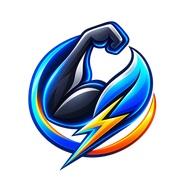
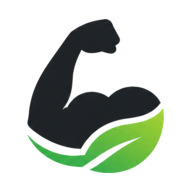
Add files via upload

diff --git a/index.html b/index.html
@@ -15,7 +15,7 @@
 <link rel="apple-touch-icon" sizes="180x180" href="apple-touch-icon.png">
 <link rel="manifest" href="site.webmanifest">
 <meta name="application-name" content="FlexFuel">
-<meta name="msapplication-TileColor" content="#0B111A">
+<meta name="msapplication-TileColor" content="#091109">
 <style>
 @import url('https://fonts.googleapis.com/css2?family=Oswald:wght@500;600;700&family=Inter:wght@400;500;600;700&display=swap');
 :root{--card:#FFFFFF;--card-up:#F1F4F9;--line:#E8ECF3;--chalk:#2A2F45;--dim:#8A90A6;--bg:#EEF1F7;
@@ -136,6 +136,8 @@ select.inp{appearance:none}
 .seg button.on{color:#FFF;border-color:transparent;font-weight:700}
 .plan-p{font-size:13.5px;line-height:1.55;margin:0}
 .note{margin:0 18px 12px;font-size:12px;color:var(--dim);line-height:1.5}
+.train-today-banner{display:flex;align-items:center;gap:12px;padding:13px 15px}
+.train-today-banner .tool-icon{display:grid;place-items:center;width:38px;height:38px;border-radius:12px;background:var(--accent-soft);color:var(--accent);flex:0 0 auto}
 
 /* =========================================================
    TRAINING WEEK — PREMIUM UI LAYER
@@ -899,14 +901,15 @@ button:active,.tool-card:active,.day-btn:active{transform:scale(.975)}
 
 
 /* FlexFuel branding */
-.brand-mini{display:flex;align-items:center;gap:10px;margin-bottom:8px}
+.brand-mini{display:flex;align-items:center;gap:10px;margin-bottom:10px}
 .brand-mini-logo{height:26px;width:auto;display:block;filter:drop-shadow(0 4px 10px rgba(0,0,0,.08))}
+.brand-header-wordmark{display:block;width:auto;height:30px;max-width:174px;object-fit:contain;background:#fff;border:1px solid rgba(18,32,20,.08);border-radius:10px;padding:4px 8px;box-shadow:0 6px 18px rgba(7,18,8,.10)}
 .brand-mini-copy{display:flex;flex-direction:column;line-height:1.05}
 .brand-mini-copy b{font-size:13px;letter-spacing:-.02em;color:var(--chalk)}
 .brand-mini-copy span{font-size:9.5px;color:var(--dim)}
 .brand-login-head{text-align:center;padding-top:40px!important}
-.brand-login-mark{display:flex;justify-content:center;margin-bottom:14px}
-.brand-hero-logo{max-width:min(280px,72vw);height:auto;display:block;filter:drop-shadow(0 12px 30px rgba(120,199,41,.18))}
+.brand-login-mark{display:flex;justify-content:center;margin:0 auto 16px;padding:12px 18px;width:min(340px,88vw);background:#fff;border:1px solid rgba(18,32,20,.10);border-radius:22px;box-shadow:0 18px 44px rgba(7,18,8,.14)}
+.brand-hero-logo{width:100%;height:auto;display:block;object-fit:contain;filter:none}
 .brand-login-sub{max-width:320px;margin:8px auto 0}
 .brand-login-card{border-top:3px solid rgba(var(--accent-rgb),.28)}
 .go-btn{box-shadow:0 14px 32px rgba(var(--accent-rgb),.22)}
@@ -1042,8 +1045,8 @@ button:hover,.ghost-btn:hover,.tool-card:hover,.day-btn:hover{transform:translat
 .profile-hero-brand{position:relative;overflow:hidden;padding:20px;border-radius:28px;margin:0 0 14px;background:linear-gradient(135deg,#0B150C 0%,#173117 52%,#2B7A35 100%);color:#F7FFF3;box-shadow:0 28px 80px rgba(52,184,71,.22)}
 .profile-hero-brand:before{content:'';position:absolute;right:-30px;top:-25px;width:190px;height:190px;border-radius:50%;background:radial-gradient(circle,rgba(200,255,41,.26),transparent 65%)}
 .profile-hero-brand .profile-top{position:relative;z-index:1;align-items:flex-start}.profile-hero-brand .profile-avatar{background:rgba(255,255,255,.14)!important;color:#fff;border-color:rgba(255,255,255,.18)!important}
-.profile-brand-mark{display:inline-flex;align-items:center;gap:10px;padding:8px 12px;border-radius:999px;background:rgba(0,0,0,.16);font-size:11px;letter-spacing:.12em;text-transform:uppercase;font-weight:800}
-.profile-brand-mark img{height:18px;width:auto}
+.profile-brand-mark{display:inline-flex;align-items:center;gap:10px;padding:8px 12px;border-radius:12px;background:#fff!important;color:#172116!important;font-size:11px;letter-spacing:.12em;text-transform:uppercase;font-weight:800;border:1px solid rgba(18,32,20,.10)!important}
+.profile-brand-mark img{height:22px;width:auto;max-width:150px}
 .profile-hero-brand .profile-name{font-size:30px}.profile-hero-brand .profile-meta,.profile-hero-brand .profile-badge{color:rgba(255,255,255,.92)}
 .profile-hero-brand .profile-badge{background:rgba(0,0,0,.18);border:1px solid rgba(255,255,255,.08)}
 .profile-kpi-deck{display:grid;grid-template-columns:repeat(4,1fr);gap:10px;margin-top:18px;position:relative;z-index:1}
@@ -1405,7 +1408,8 @@ header h1,.display{color:var(--chalk)!important}
 .fuel-hero .fuel-kcal,.fuel-hero b,.fuel-hero span,.fuel-hero .sub{color:#F8FFF5!important}
 .home-hero-premium .eyebrow,.profile-hero-brand .eyebrow,.fuel-hero .eyebrow{color:#DFFF86!important}
 .home-focus-card,.fuel-macro-tile,.profile-kpi-deck .profile-kpi{background:rgba(255,255,255,.10)!important;border-color:rgba(255,255,255,.12)!important;color:#F8FFF5!important;box-shadow:none!important}
-.home-brand-pill,.home-focus-badge,.profile-brand-mark,.profile-badge{background:rgba(0,0,0,.20)!important;color:#F8FFF5!important;border-color:rgba(255,255,255,.10)!important}
+.home-brand-pill,.home-focus-badge,.profile-badge{background:rgba(0,0,0,.20)!important;color:#F8FFF5!important;border-color:rgba(255,255,255,.10)!important}
+.profile-brand-mark{background:#fff!important;color:#172116!important;border-color:rgba(18,32,20,.10)!important}
 .home-primary-actions .ghost-btn,.fuel-hero-actions .ghost-btn,.profile-hero-brand .ghost-btn{background:rgba(255,255,255,.10)!important;color:#F8FFF5!important;border-color:rgba(255,255,255,.14)!important}
 
 .food-cal-track,.food-mini-track,.mini-progress,.macro-row .track,.progress-track,.bar{background:var(--surface3)!important}
@@ -1419,126 +1423,6 @@ header h1,.display{color:var(--chalk)!important}
 
 @media(max-width:560px){.theme-grid-three{grid-template-columns:repeat(3,1fr)!important}}
 
-
-/* ===== FlexFuel pristine visibility reset ===== */
-:root{
-  --accent:#2F6BFF !important;
-  --accent2:#23B4FF !important;
-  --accent-rgb:47,107,255 !important;
-  --accent-soft:rgba(47,107,255,.12) !important;
-  --accent-softer:rgba(47,107,255,.07) !important;
-  --hero-grad:linear-gradient(135deg,#2F6BFF 0%, #23B4FF 58%, #FF8C42 100%) !important;
-  --ff-blue:#2F6BFF;
-  --ff-cyan:#23B4FF;
-  --ff-orange:#FF8C42;
-  --ff-orange-soft:rgba(255,140,66,.12);
-}
-:root[data-accent="green"],:root[data-accent="orange"],:root[data-accent="violet"],:root[data-accent="rose"],:root[data-accent="aqua"]{
-  --accent:#2F6BFF !important;
-  --accent2:#23B4FF !important;
-  --accent-rgb:47,107,255 !important;
-}
-:root[data-resolved-theme="light"]{
-  --card:#FFFFFF !important;
-  --card-up:#FBFCFE !important;
-  --line:#E4EAF4 !important;
-  --chalk:#121826 !important;
-  --dim:#5F6E85 !important;
-  --bg:#F5F7FB !important;
-  --glass:rgba(255,255,255,.92) !important;
-  --glass-brd:rgba(18,24,38,.08) !important;
-  --glass-in:#F8FAFD !important;
-  --glass-btn:#F2F5FA !important;
-  --glass-btn2:#F8FAFD !important;
-  --glass-sec:#EFF4FB !important;
-  --brd-soft:rgba(18,24,38,.10) !important;
-  --brd-soft2:rgba(18,24,38,.12) !important;
-  --brd-soft3:rgba(18,24,38,.08) !important;
-  --shadow:rgba(31,46,86,.09) !important;
-  --tab:rgba(255,255,255,.92) !important;
-  --sw:#E8EEF7 !important;
-  --surface:#FFFFFF !important;
-  --surface2:#F7F9FD !important;
-  --surface3:#EDF2FA !important;
-  --ink:#121826 !important;
-  --muted:#66758D !important;
-  --page:#F5F7FB !important;
-  --hair:rgba(18,24,38,.08) !important;
-}
-:root[data-resolved-theme="dark"]{
-  --card:#161D2A !important;
-  --card-up:#1B2433 !important;
-  --line:#2B3548 !important;
-  --chalk:#F5F7FB !important;
-  --dim:#B4BED1 !important;
-  --bg:#0B111A !important;
-  --glass:rgba(22,29,42,.90) !important;
-  --glass-brd:rgba(255,255,255,.08) !important;
-  --glass-in:#141C29 !important;
-  --glass-btn:#1B2433 !important;
-  --glass-btn2:#202A3C !important;
-  --glass-sec:#1B2433 !important;
-  --brd-soft:rgba(255,255,255,.09) !important;
-  --brd-soft2:rgba(255,255,255,.11) !important;
-  --brd-soft3:rgba(255,255,255,.07) !important;
-  --shadow:rgba(0,0,0,.28) !important;
-  --tab:rgba(11,17,26,.94) !important;
-  --sw:#1A2230 !important;
-  --surface:#161D2A !important;
-  --surface2:#1B2433 !important;
-  --surface3:#243044 !important;
-  --ink:#F5F7FB !important;
-  --muted:#AEB8CB !important;
-  --page:#0B111A !important;
-  --hair:rgba(255,255,255,.08) !important;
-}
-body{background:var(--page)!important;color:var(--chalk)!important;}
-body::before{background:var(--page)!important;}
-button:focus-visible{outline:2px solid var(--accent)!important;outline-offset:2px;}
-a, .accent-link{color:var(--accent)!important;}
-.display,h1,h2,h3,.ex-title,.profile-name,.goal-value,.fuel-kcal{color:var(--chalk)!important;}
-.sub,.eyebrow,.ex-meta,.ex-last,.food-log-row small,.profile-kpi span,.profile-metric-card span,.food-mini-stat span,.food-quick-card small,.home-action-card span,.home-snapshot small,.fuel-target-note{color:var(--dim)!important;}
-.go-btn{background:var(--hero-grad)!important;color:#fff!important;box-shadow:0 14px 34px rgba(var(--accent-rgb),.26)!important;}
-.ghost-btn{border-color:var(--line)!important;color:var(--chalk)!important;background:var(--glass-btn)!important;}
-.inp, select, textarea{background:var(--surface2)!important;color:var(--chalk)!important;border-color:var(--hair)!important;}
-input::placeholder, textarea::placeholder{color:var(--muted)!important;}
-.card,.timer,.food-dashboard,.food-search-card,.food-library-card,.food-editor,.food-custom-form,.food-scanner,.home-snapshot,.food-mini-stat,.food-quick-card,.food-meal-card,.account-action-card,.profile-metric-card,.home-action-card,.home-snapshot,.fuel-quick-shell{background:var(--card)!important;border-color:var(--line)!important;box-shadow:0 10px 30px var(--shadow)!important;}
-.brand-login-card,.brand-card,.brand-shell{background:var(--card)!important;}
-.brand-hero-logo{filter:drop-shadow(0 14px 30px rgba(47,107,255,.18))!important;}
-.app-header-row .eyebrow,.brand-mini-copy span,.brand-mini-copy b{color:var(--chalk)!important;}
-.header-profile-btn,.profile-avatar,.header-avatar{box-shadow:0 10px 24px rgba(var(--accent-rgb),.16)!important;}
-.tabbar{background:var(--tab)!important;border-top-color:var(--line)!important;}
-.tabbar button{color:var(--dim)!important;}
-.tabbar button.on{color:var(--accent)!important;}
-.theme-grid{grid-template-columns:repeat(3,minmax(0,1fr))!important;}
-.home-hero-premium,.profile-hero-brand,.fuel-hero,.today-focus-banner{
-  color:#fff!important;
-  background:linear-gradient(135deg,#10203B 0%, #173C74 52%, #1F7CD7 78%, #FF8C42 100%)!important;
-  box-shadow:0 24px 70px rgba(19,46,94,.26)!important;
-}
-.home-hero-premium:before,.profile-hero-brand:before,.fuel-hero:before{
-  background:radial-gradient(circle,rgba(35,180,255,.24),transparent 68%)!important;
-}
-.home-hero-premium:after{background:radial-gradient(circle,rgba(255,255,255,.16),transparent 70%)!important;}
-.home-brand-pill,.profile-brand-mark,.home-focus-card,.profile-kpi-deck .profile-kpi,.fuel-macro-tile,.home-focus-badge{
-  background:rgba(255,255,255,.12)!important;
-  border:1px solid rgba(255,255,255,.14)!important;
-  color:#fff!important;
-}
-.home-brand-pill span,.profile-brand-mark span,.profile-hero-brand .profile-meta,.profile-hero-brand .profile-badge,.home-hero-sub,.home-focus-kicker,.home-focus-meta span,.fuel-macro-tile span,.fuel-macro-tile small,.fuel-hero-head .sub,.today-focus-banner .sub{color:rgba(255,255,255,.9)!important;}
-.today-focus-banner .display,.today-focus-banner .eyebrow{color:#fff!important;}
-.food-date-nav button,.food-date-center,.food-subnav button,.seg button,.timer-btns button,.food-meal-actions button{background:var(--surface2)!important;color:var(--chalk)!important;border-color:var(--line)!important;}
-.food-date-center b,.food-date-center span,.food-section-head h3,.settings-title h3,.modern-panel-title h3,.hist-row span,.hist-row .sub{color:var(--chalk)!important;}
-.food-fab{background:var(--hero-grad)!important;color:#fff!important;box-shadow:0 16px 34px rgba(var(--accent-rgb),.28)!important;}
-.progress-track,.bar,.mini-progress,.track{background:var(--surface3)!important;}
-.progress-track i,.bar div,.mini-progress i,.track i,.goal-ring,.fuel-hero-ring{background-image:none!important;}
-.progress-track i,.bar div,.mini-progress i,.track i{background:var(--hero-grad)!important;}
-.goal-ring{background:conic-gradient(var(--accent) var(--goal-pct,0%),var(--surface3) 0)!important;}
-.fuel-hero-ring{background:conic-gradient(var(--ff-cyan) var(--fuel-pct), rgba(255,255,255,.14) 0)!important;}
-.fuel-hero-ring i{background:rgba(9,17,26,.80)!important;color:#fff!important;}
-.card.today-focus-banner .sub{color:rgba(255,255,255,.92)!important;}
-.exercise-thumb-btn,.exercise-thumb{border-color:var(--line)!important;}
-
 </style>
 </head>
 <body>
@@ -1548,7 +1432,7 @@ input::placeholder, textarea::placeholder{color:var(--muted)!important;}
 <script>
 "use strict";
 // ===================== CONSTANTS =====================
-var HEX={upper:'#2F6BFF',lower:'#1AA8FF',pb:'#FF8C42',act:'#26BFA6',rest:'#7B879B'};
+var HEX={upper:'#B8FF2C',lower:'#46D05B',pb:'#89F83F',act:'#6EEB74',rest:'#6A7B68'};
 var DAYS=['Mon','Tue','Wed','Thu','Fri','Sat','Sun'];
 // Activity (cardio) types users can pick for non-lifting days
 var ACTIVITIES={
@@ -1690,12 +1574,12 @@ function actDaysPerWeek(){return DAYS.filter(function(dk){return dayType(dk)==='
 // ===================== STORAGE =====================
 var KEY='training-week';
 var mem=null;
-var APP_NAME='FlexFuel',APP_TAG='Train hard. Fuel smart.',APP_LOGO='flexfuel_glossy_energy_logo.png',APP_MARK='icon-192.png';
+var APP_NAME='FlexFuel',APP_TAG='Train hard. Fuel smart.',APP_LOGO='flexfuel_fitness_logo.png',APP_MARK='icon-192.png';
 function todayStr(){var d=new Date();return d.getFullYear()+'-'+('0'+(d.getMonth()+1)).slice(-2)+'-'+('0'+d.getDate()).slice(-2);}
 function blank(){return {
  start:todayStr(),logs:{},body:[],pb:{},acts:{},checkin:{},subs:{},session:null,profile:null,jokeState:null,food:{},
  foodMeta:{favorites:{},recent:[],usual:{},savedMeals:{},customFoods:{},barcodes:{}},
- notes:{},goals:{weekly:4},templates:{},settings:{theme:'system',accent:'blue',largeText:false,reduceMotion:false,haptics:true,activityMultiplier:1.55,nutritionMode:'estimated',nutritionTargets:{cal:null,prot:null,cb:null,f:null,fi:null}}
+ notes:{},goals:{weekly:4},templates:{},settings:{theme:'system',accent:'green',largeText:false,reduceMotion:false,haptics:true,activityMultiplier:1.55,nutritionMode:'estimated',nutritionTargets:{cal:null,prot:null,cb:null,f:null,fi:null}}
 };}
 // ensure profile has containers for custom exercises / per-day edits
 function ensureProfileEdits(){if(!S.profile)return;
@@ -2306,7 +2190,7 @@ function foodWeeklyStats(endDs){
 function esc(s){return String(s==null?'':s).replace(/&/g,'&amp;').replace(/</g,'&lt;').replace(/"/g,'&quot;');}
 function brandLogo(size,cls){return '<img src="'+APP_LOGO+'" alt="'+APP_NAME+' logo" class="'+(cls||'brand-logo')+'"'+(size?' style="height:'+size+'px"':'')+'>'; }
 function brandMark(size,cls){return '<img src="'+APP_MARK+'" alt="" class="'+(cls||'brand-mark')+'"'+(size?' style="height:'+size+'px;width:'+size+'px"':'')+'>'; }
-function brandMini(){return '<div class="brand-mini">'+brandMark(26,'brand-mini-logo')+'<div class="brand-mini-copy"><b>'+APP_NAME+'</b><span>'+APP_TAG+'</span></div></div>'; }
+function brandMini(){return '<div class="brand-mini">'+brandLogo(30,'brand-header-wordmark')+'</div>'; }
 function dayKeyOf(ds){return DAYS[(new Date(ds+'T12:00').getDay()+6)%7];}
 function slotEx(dk,i){var base=planEx(dk)[i];return (S.subs&&S.subs[dk+'-'+i])||base;}
 function firstName(){return S.profile&&S.profile.name?S.profile.name.split(' ')[0]:'there';}
@@ -2727,17 +2611,13 @@ function closeExerciseImage(){
 document.addEventListener('keydown',function(e){if(e.key==='Escape')closeExerciseImage();});
 
 function todayView(){
- var dk=dayKeyOf(todayStr()),type=dayType(dk),hex=HEX[type],isToday=true;
- viewDay=dk;
- var focusTitle=isTraining(dk)?dayLabel(dk):(dayType(dk)==='act'?activityName(dk):'Recovery day');
- var html=headerHtml('Today',type);
- html+='<div class="card today-focus-banner" style="border-color:'+hex+';background:linear-gradient(135deg, rgba(47,107,255,.08), rgba(255,140,66,.08))">'+
-   '<div class="eyebrow" style="color:'+hex+'">Today\'s focus</div>'+
-   '<div class="display" style="font-size:28px;margin-top:2px;color:var(--chalk)">'+esc(focusTitle)+'</div>'+
-   '<div class="sub" style="margin-top:6px">'+(isTraining(dk)?(planEx(dk).length+' exercises · ~'+estMin(dk)+' min planned'):(dayType(dk)==='act'?'Cardio / activity day':'Recovery, mobility, and recovery habits'))+'</div>'+
-  '</div>';
+ // Train is intentionally a focused Today surface. Weekly planning and history
+ // live under More and Progress, so this tab never drifts into another day.
+ var dk=dayKeyOf(todayStr());viewDay=dk;
+ var type=dayType(dk),hex=HEX[type],isToday=true;
+ var html=headerHtml(dayLabel(dk),type);
+ html+='<div class="card train-today-banner"><span class="tool-icon">'+appIcon('calendar',20)+'</span><div><div class="eyebrow">TODAY ONLY</div><b>'+new Date(todayStr()+'T12:00:00').toLocaleDateString(undefined,{weekday:'long',month:'short',day:'numeric'})+'</b></div><span class="pill" style="margin-left:auto;background:var(--accent-soft);color:var(--accent)">'+(isTraining(dk)?'Training':dayType(dk)==='act'?'Activity':'Recovery')+'</span></div>';
 
- // weekly weigh-in prompt
  // weekly weigh-in prompt
  if(isToday&&needsWeighIn()){
   html+='<div class="card" style="border-color:#2F7DE1"><div class="eyebrow" style="color:#2F7DE1">Weekly weigh-in</div>'+
@@ -3317,7 +3197,7 @@ function profileView(){
  html+='<section class="settings-section"><div class="modern-panel-title"><h3>Achievements</h3><span>Unlocked from your activity</span></div><div class="achievement-row">'+ach.map(function(a){return '<div class="achievement"><div class="ico">'+appIcon(a[0],23)+'</div><b>'+a[1]+'</b><span>'+a[2]+'</span></div>';}).join('')+'</div></section>';
 
  html+='<div class="profile-section-grid">'+
-   '<section class="settings-section"><div class="modern-panel-title"><h3>Appearance</h3><span>Pristine FlexFuel palette</span></div><div class="theme-grid theme-grid-three">'+[['system','System'],['light','Light'],['dark','Dark']].map(function(x){return '<button class="theme-choice '+(st.theme===x[0]?'on':'')+'" onclick="setTheme(\''+x[0]+'\')"><div class="theme-preview '+x[0]+'"></div>'+x[1]+'</button>';}).join('')+'</div><div class="sub" style="margin-top:12px">System follows your device appearance. FlexFuel now uses one clean blue-and-orange brand palette across Light and Dark for maximum visibility.</div></section>'+
+   '<section class="settings-section"><div class="modern-panel-title"><h3>Appearance</h3><span>FlexFuel green stays consistent</span></div><div class="theme-grid theme-grid-three">'+[['system','System'],['light','Light'],['dark','Dark']].map(function(x){return '<button class="theme-choice '+(st.theme===x[0]?'on':'')+'" onclick="setTheme(\''+x[0]+'\')"><div class="theme-preview '+x[0]+'"></div>'+x[1]+'</button>';}).join('')+'</div><div class="sub" style="margin-top:12px">System follows your device appearance. FlexFuel uses one brand-green accent in every theme for consistent contrast.</div></section>'+
    '<section class="settings-section"><div class="modern-panel-title"><h3>Experience</h3><span>Comfort & accessibility</span></div><div class="setting-stack">'+
       '<div class="setting-row"><div class="setting-label"><b>Haptics</b><span>Tap feedback</span></div><button class="toggle '+(st.haptics?'on':'')+'" onclick="toggleSetting(\'haptics\')"><i></i></button></div>'+
       '<div class="setting-row"><div class="setting-label"><b>Reduce motion</b><span>Fewer animations</span></div><button class="toggle '+(st.reduceMotion?'on':'')+'" onclick="toggleSetting(\'reduceMotion\')"><i></i></button></div>'+
@@ -3354,7 +3234,7 @@ var TABS=[['home','home','Home'],['today','workout','Train'],['progress','progre
 var VIEWS={home:homeView,today:todayView,progress:progressView,food:foodView,more:moreView,dash:dashView};
 
 function loginView(){
- return '<header class="brand-login-head"><div class="brand-login-mark">'+brandMark(92,'brand-login-icon')+'</div><div class="eyebrow">'+APP_NAME+'</div>'+
+ return '<header class="brand-login-head"><div class="brand-login-mark">'+brandLogo(0,'brand-hero-logo')+'</div><div class="eyebrow">'+APP_NAME+'</div>'+
   '<h1 class="display" style="color:var(--accent);font-size:38px">Welcome to '+APP_NAME+'</h1>'+
   '<p class="sub brand-login-sub">'+APP_TAG+'</p><div class="accent-bar" style="background:var(--hero-grad)"></div></header>'+
   '<div class="card brand-login-card" style="margin-top:20px">'+
